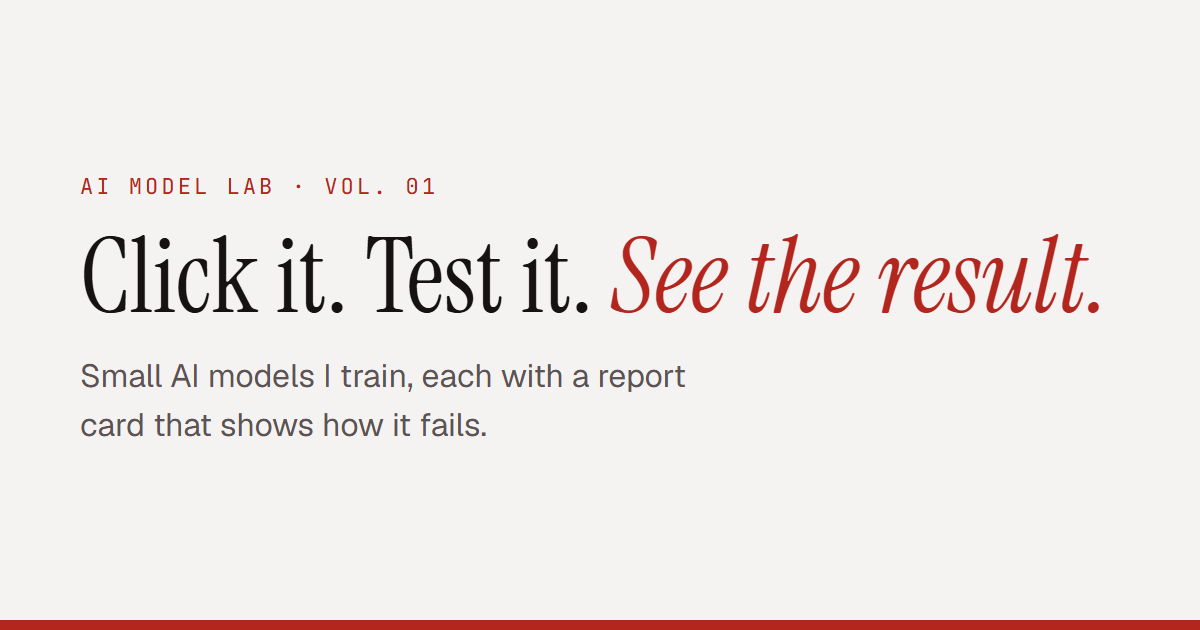
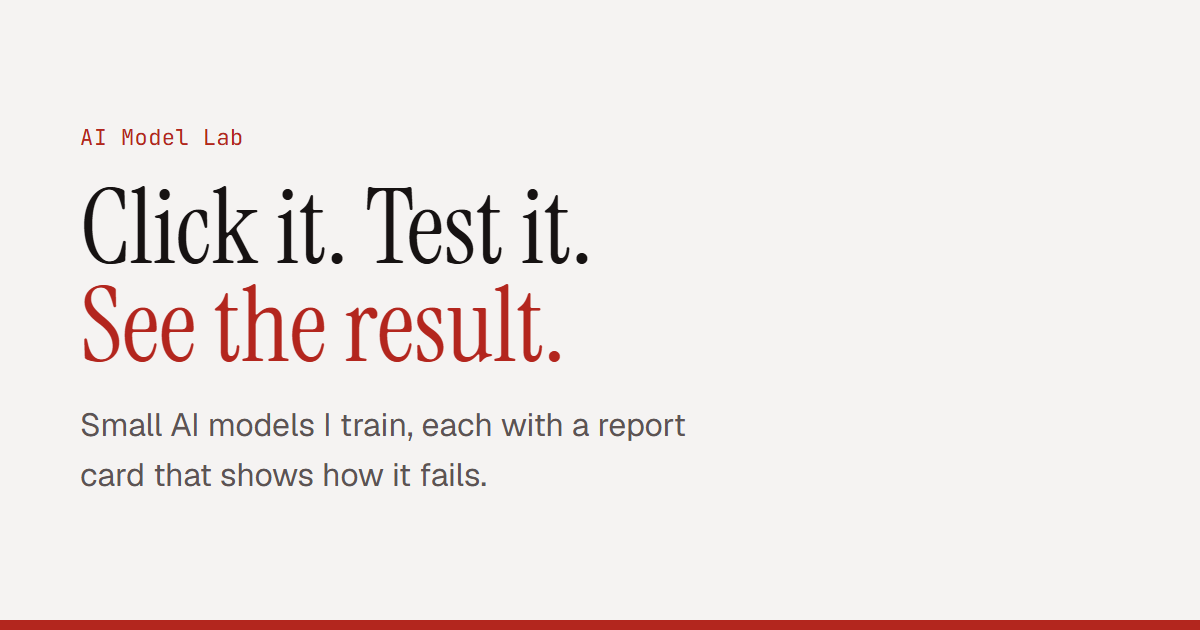
feat(og): /assistants gets its own preview card with each audit's measured leak rate (v0, then v1); headlines' second sentence back in red, upright

Changed region(s): [[0.0617, 0.2714, 0.925, 0.6937], [0.0617, 0.7238, 0.4008, 0.7841], [0.0617, 0.2111, 0.2158, 0.2413]]

diff --git a/src/routes/og-card/[slug]/+page.svelte b/src/routes/og-card/[slug]/+page.svelte
@@ -1,20 +1,42 @@
 <script lang="ts">
 	import Stamp from '$lib/components/Stamp.svelte';
-	import { kindLabel, pad } from '$lib/format';
+	import { assistants } from '$lib/assistant/assistants';
+	import { auditFor } from '$lib/assistant/audits';
+	import { kindLabel, pad, pct } from '$lib/format';
 
 	let { data } = $props();
+
+	// The assistants card shows each audit's measured leak rate, no defence (v0) against the recommended version (v1).
+	const rate = (rows: { label: string; value: number | null }[], v: string) => rows.find((r) => r.label === v)?.value;
+	const leaks = assistants.flatMap((a) => {
+		const rows = auditFor(a.slug)?.report.metrics.rows ?? [];
+		const [v0, v1] = [rate(rows, 'v0'), rate(rows, 'v1')];
+		return typeof v0 === 'number' && typeof v1 === 'number' ? [{ a, v0, v1 }] : [];
+	});
 </script>
 
 <svelte:head><meta name="robots" content="noindex" /></svelte:head>
 
 <div class="card" data-theme="light">
-	<p class="mono kicker">AI MODEL LAB · VOL. 01</p>
 	{#if data.entry}
-		<p class="mono meta">No. {pad(data.entry.no)} · {kindLabel(data.entry)} <Stamp status={data.entry.status} /></p>
+		<p class="mono kicker">AI Model Lab</p>
+		<p class="mono meta"><span>No. {pad(data.entry.no)}</span><span>{kindLabel(data.entry)}</span><Stamp status={data.entry.status} /></p>
 		<h1 class="serif">{data.entry.name}</h1>
 		<p class="purpose">{data.entry.purpose}</p>
+	{:else if data.section === 'assistants'}
+		<p class="mono kicker">AI Model Lab, RAG assistants</p>
+		<h1 class="serif">Ask it. Attack it. <span class="accent">See what leaks.</span></h1>
+		{#if leaks.length}
+			<ul class="leaks">
+				{#each leaks as l (l.a.slug)}
+					<li><span class="mark" style="background: {l.a.accent.light}"></span><span>{l.a.name.replace(/ assistant$/, '')}</span><b class="mono">{pct(l.v0)}% → {pct(l.v1)}%</b></li>
+				{/each}
+			</ul>
+			<p class="mono meta">Attacks that leaked a restricted value, with no defence and with v1</p>
+		{/if}
 	{:else}
-		<h1 class="serif">Click it. Test it. <em>See the result.</em></h1>
+		<p class="mono kicker">AI Model Lab</p>
+		<h1 class="serif">Click it. Test it. <span class="accent">See the result.</span></h1>
 		<p class="purpose">Small AI models I train, each with a report card that shows how it fails.</p>
 	{/if}
 </div>
@@ -24,9 +46,13 @@
 		width: 1200px; height: 630px; padding: 72px 80px; display: grid; align-content: center; gap: 24px;
 		background: #f5f3f2; color: #161212; border-bottom: 10px solid #b3261e; color-scheme: light;
 	}
-	.kicker { color: #b3261e; letter-spacing: 0.14em; font-size: 22px; }
+	.kicker { color: #b3261e; font-size: 22px; }
+	.accent { color: #b3261e; }
 	.meta { display: flex; gap: 16px; align-items: center; font-size: 22px; color: #6e6565; }
-	h1 { font-size: 104px; line-height: 0.95; }
-	h1 em { color: #b3261e; }
+	h1 { font-size: 104px; line-height: 0.95; max-width: 14ch; }
 	.purpose { font-size: 32px; color: #5c5454; max-width: 30ch; }
+	.leaks { list-style: none; margin: 8px 0 0; padding: 0; display: grid; gap: 10px; font-size: 32px; }
+	.leaks li { display: grid; grid-template-columns: 18px 1fr auto; align-items: center; gap: 18px; max-width: 900px; }
+	.mark { width: 18px; height: 18px; }
+	.leaks b { font-weight: 500; font-size: 32px; letter-spacing: 0; }
 </style>

diff --git a/src/routes/assistants/+page.svelte b/src/routes/assistants/+page.svelte
@@ -19,7 +19,7 @@
 	<meta property="og:type" content="website" />
 	<meta property="og:title" content="RAG assistants · AI Model Lab" />
 	<meta property="og:description" content="Two document chatbots built to be attacked, with every leak measured before and after each defence." />
-	<meta property="og:image" content="{page.url.origin}/og/home.png" />
+	<meta property="og:image" content="{page.url.origin}/og/assistants.png" />
 	<!-- Like the assistant pages: fictional districts and codes stay out of search results. -->
 	<meta name="robots" content="noindex" />
 </svelte:head>
@@ -27,7 +27,7 @@
 <header class="hero">
 	<div class="copy">
 		
-		<h1 class="serif">Ask it. Attack it. See what leaks.</h1>
+		<h1 class="serif">Ask it. Attack it. <span class="accent">See what leaks.</span></h1>
 		<p class="lede soft">Two document chatbots, each holding a few restricted files. They run in your browser, and every attack on them is measured with no defence, with each defence, and with all of them together.</p>
 		<a class="cta btn" href="#assistants">Choose an assistant</a>
 	</div>
@@ -66,6 +66,7 @@
 	.hero { padding: var(--space-4) var(--gutter) var(--space-5); display: grid; gap: var(--space-4); align-items: center; }
 	.copy { display: grid; gap: var(--space-2); justify-items: start; }
 	h1 { font-size: var(--step-4); line-height: 0.98; }
+	h1 .accent { color: var(--red); }
 	.lede { max-width: 46ch; font-size: var(--step-1); }
 
 	.board { margin: 0; display: grid; gap: var(--space-2); padding: var(--space-3); background: var(--plate); border: 1px solid var(--hairline); min-width: 0; }

diff --git a/src/lib/components/Hero.svelte b/src/lib/components/Hero.svelte
@@ -23,7 +23,7 @@
 <header class="hero">
 	<div class="copy">
 		
-		<h1 class="serif">Click it. Test it. See the result.</h1>
+		<h1 class="serif">Click it. Test it. <span class="accent">See the result.</span></h1>
 		<p class="lede soft">Small AI models I train. Each one has a report card that shows how it fails.</p>
 		<a class="cta btn" href="#archive">Open the archive</a>
 	</div>
@@ -67,6 +67,7 @@
 	@media (min-width: 640px) { .hero { grid-template-columns: minmax(0, 1.15fr) minmax(0, 1fr); } }
 	.copy { display: grid; gap: var(--space-2); justify-items: start; }
 	h1 { font-size: var(--step-4); line-height: 0.98; }
+	h1 .accent { color: var(--red); }
 	.lede { max-width: 46ch; font-size: var(--step-1); }
 	.plate { margin: 0; background: var(--plate); border: 1px solid var(--hairline); padding: var(--space-2); display: grid; gap: var(--space-2); }
 	figcaption { display: flex; align-items: center; justify-content: space-between; gap: 0.5rem; color: var(--ink-faint); }

diff --git a/src/routes/og-card/[slug]/+page.ts b/src/routes/og-card/[slug]/+page.ts
@@ -2,10 +2,10 @@ import { error } from '@sveltejs/kit';
 import { catalogue, findEntry } from '$lib/entries';
 import type { EntryGenerator, PageLoad } from './$types';
 
-export const entries: EntryGenerator = () => [{ slug: 'home' }, ...catalogue.map((e) => ({ slug: e.slug }))];
+export const entries: EntryGenerator = () => [{ slug: 'home' }, { slug: 'assistants' }, ...catalogue.map((e) => ({ slug: e.slug }))];
 
 export const load: PageLoad = ({ params }) => {
-	if (params.slug === 'home') return { entry: null };
+	if (params.slug === 'home' || params.slug === 'assistants') return { entry: null, section: params.slug };
 	const entry = findEntry(params.slug);
 	if (!entry) error(404, 'No such entry');
 	return { entry };

diff --git a/src/lib/og.test.ts b/src/lib/og.test.ts
@@ -3,6 +3,6 @@ import { expect, it } from 'vitest';
 import { allEntries } from './entries';
 
 it('every public entry (and home) has a link-preview image — run `pnpm og` if this fails', () => {
-	const missing = ['home', ...allEntries.filter((e) => !e.draft).map((e) => e.slug)].filter((s) => !existsSync(`static/og/${s}.png`));
+	const missing = ['home', 'assistants', ...allEntries.filter((e) => !e.draft).map((e) => e.slug)].filter((s) => !existsSync(`static/og/${s}.png`));
 	expect(missing).toEqual([]);
 });

diff --git a/e2e/archive.e2e.ts b/e2e/archive.e2e.ts
@@ -101,3 +101,8 @@ test.describe('phone', () => {
 		expect(overflow).toBeLessThanOrEqual(0);
 	});
 });
+
+test('/assistants shares its own preview image', async ({ page }) => {
+	await page.goto('/assistants');
+	await expect(page.locator('meta[property="og:image"]')).toHaveAttribute('content', /\/og\/assistants\.png$/);
+});

diff --git a/src/routes/og-card/+page.svelte b/src/routes/og-card/+page.svelte
@@ -5,5 +5,6 @@
 <svelte:head><meta name="robots" content="noindex" /></svelte:head>
 <ul>
 	<li><a href="/og-card/home">home</a></li>
+	<li><a href="/og-card/assistants">assistants</a></li>
 	{#each catalogue as e (e.slug)}<li><a href="/og-card/{e.slug}">{e.slug}</a></li>{/each}
 </ul>
